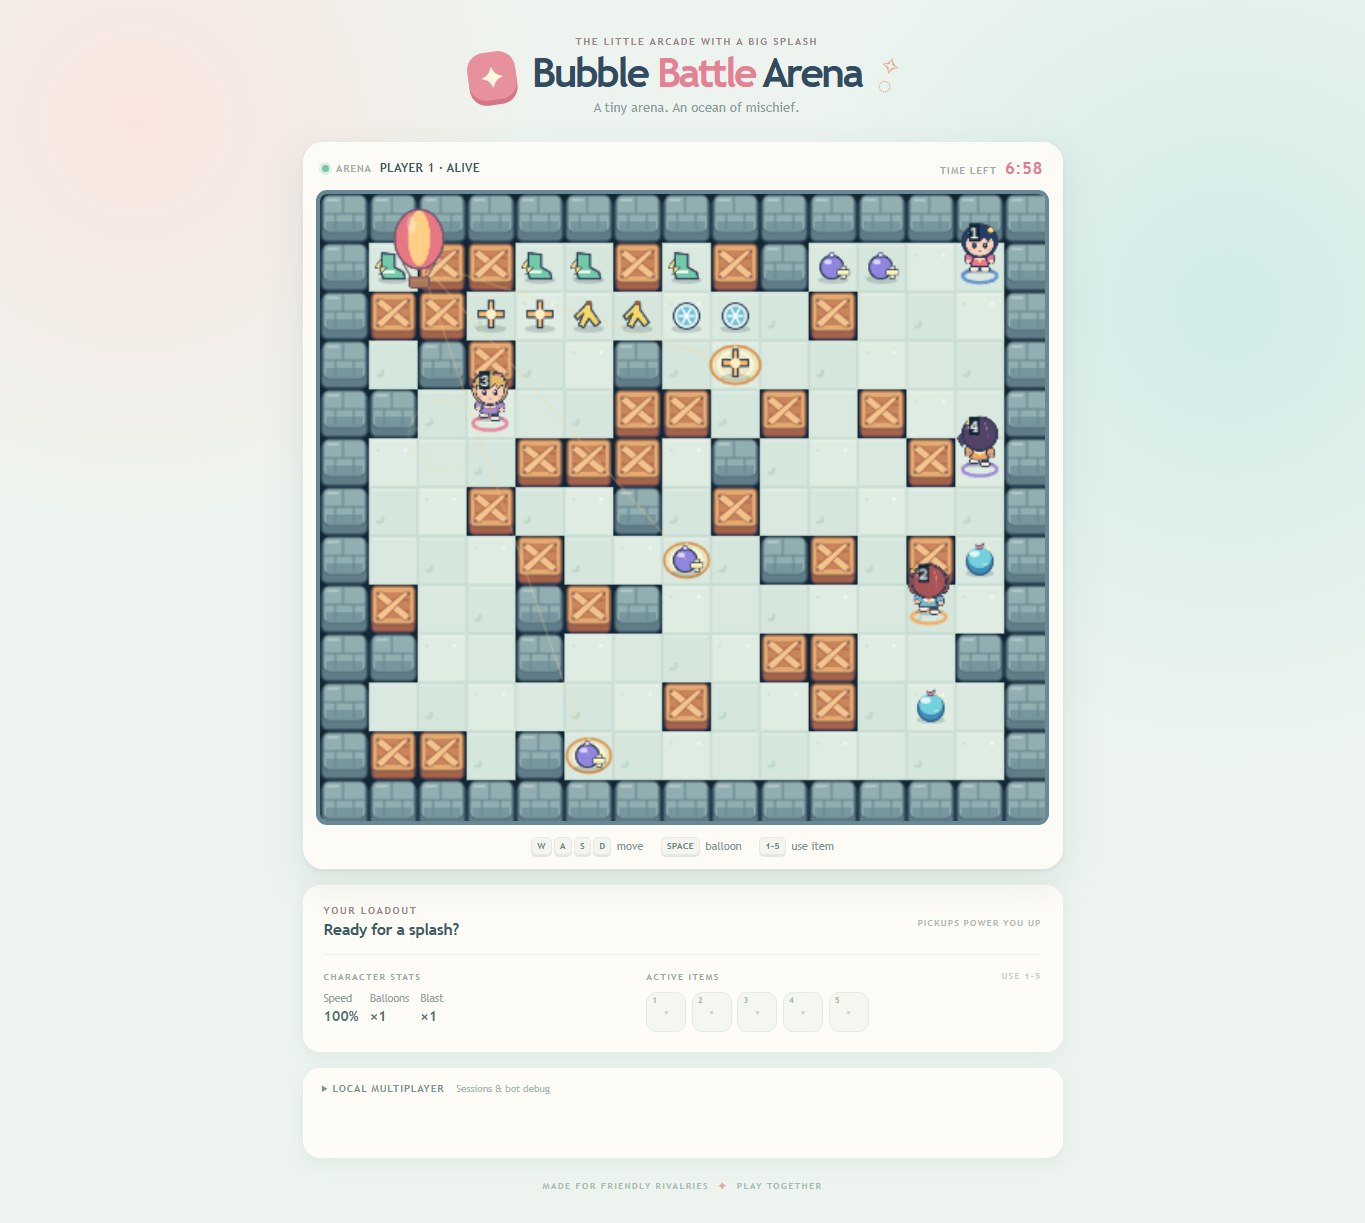
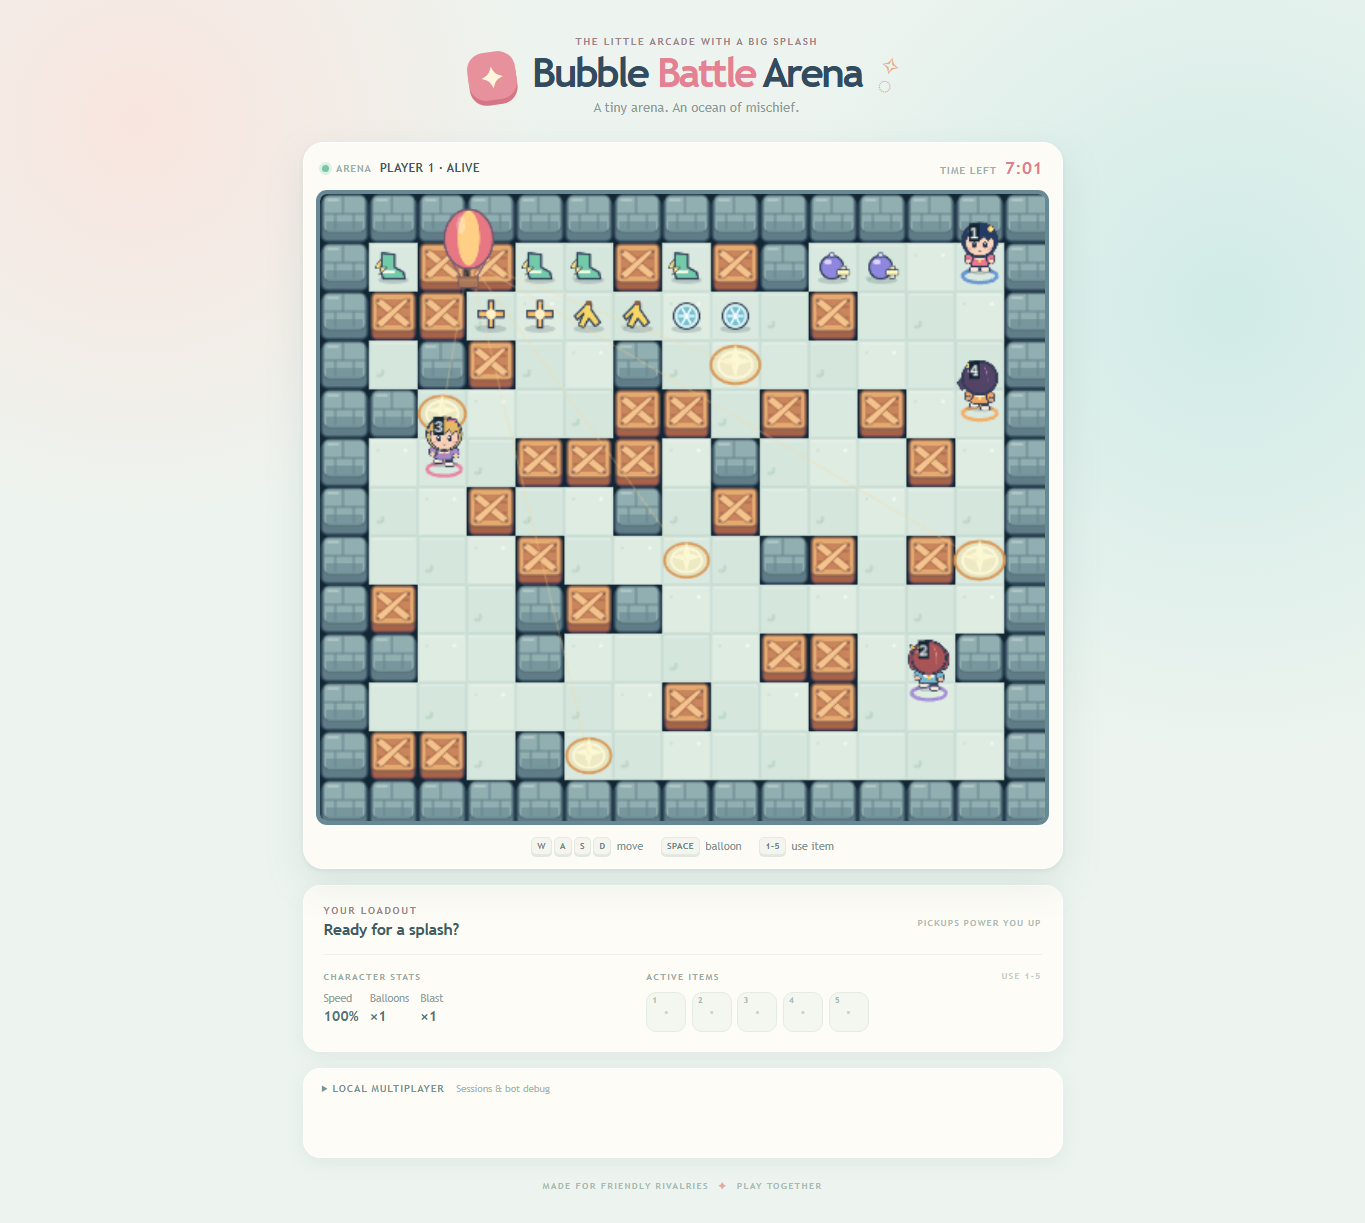
Add authoritative supply drop warnings

diff --git a/packages/engine/src/game.ts b/packages/engine/src/game.ts
@@ -24,6 +24,7 @@ export class Game {
   private nextItemId = 0;
   private supplyRandom: () => number;
   private nextSupplyIndex = 0;
+  private pendingSupply: { x: number; y: number; type: ItemType }[] | null = null;
   private hitExplosions = new Map<number, Set<string>>();
   private match?: MatchConfig;
   constructor(playerIds: string[], mapConfig: Partial<MapConfig> = {}, movementConfig: Partial<MovementConfig> = {}, bombConfig: Partial<BombConfig> = {}, match?: MatchConfig, itemConfig: Partial<ItemConfig> = {}) {
@@ -58,7 +59,7 @@ export class Game {
         !Number.isInteger(b.initialCapacity) || b.initialCapacity < 1 || !Number.isInteger(b.maxCapacity) || b.maxCapacity < b.initialCapacity ||
         !Number.isInteger(b.maxRange) || b.maxRange < 1 || typeof b.stopAtDestructible !== "boolean" || !["ignore", "reset", "eliminate"].includes(b.repeatedHit)) throw new RangeError("Invalid bomb configuration");
     for (const id of playerIds) this.upgrades.set(id, { capacity: b.initialCapacity, range: 1 });
-    this.state = { tick: 0, elapsedSeconds: 0, result: null, map, bombs: [], explosions: [], players: playerIds.map((id, i) => ({ id, teamId: match?.mode === "team" ? match.teams![id] : id, x: (spawns[i].x + 0.5) * map.tileSize, y: (spawns[i].y + 0.5) * map.tileSize, status: "alive", trappedSeconds: 0, boots: 0, capacityUpgrades: 0, rangeUpgrades: 0, inventory: Array(5).fill(null), slowSeconds: 0, slide: null, direction: { ...IDLE } })), items: [], balloon: null };
+    this.state = { tick: 0, elapsedSeconds: 0, result: null, map, bombs: [], explosions: [], players: playerIds.map((id, i) => ({ id, teamId: match?.mode === "team" ? match.teams![id] : id, x: (spawns[i].x + 0.5) * map.tileSize, y: (spawns[i].y + 0.5) * map.tileSize, status: "alive", trappedSeconds: 0, boots: 0, capacityUpgrades: 0, rangeUpgrades: 0, inventory: Array(5).fill(null), slowSeconds: 0, slide: null, direction: { ...IDLE } })), items: [], balloon: null, supplyPreview: null };
     // Provisional initial distribution: four boots and a configurable supply of other items.
     const available = map.tiles.flat().filter(t => t.type === "floor" && !spawns.some(p => Math.abs(p.x - t.x) + Math.abs(p.y - t.y) <= 1));
     for (const tile of map.tiles.flat()) if (tile.type === "floor" && !available.includes(tile)) available.push(tile);
@@ -75,31 +76,63 @@ export class Game {
     this.state.items.push({ id: this.nextItemId++, type, x, y, kind, ownerId, active: kind !== "trap" });
   }
   /** A bounded selection from currently free floor tiles. Fewer than four means no drop. */
-  private spawnSupply(startedAt: number): void {
-    this.state.balloon = { startedAt, durationSeconds: 20 };
+  private freeSupplyTiles() {
     const size = this.state.map.tileSize;
-    const tiles = this.state.map.tiles.flat().filter(tile => tile.type === "floor" &&
+    return this.state.map.tiles.flat().filter(tile => tile.type === "floor" &&
       !this.state.items.some(item => item.x === tile.x && item.y === tile.y) &&
       !this.state.bombs.some(bomb => bomb.x === tile.x && bomb.y === tile.y) &&
       !this.state.players.some(player => player.status !== "eliminated" && Math.floor(player.x / size) === tile.x && Math.floor(player.y / size) === tile.y));
-    if (tiles.length < 4) return;
+  }
+  private selectSupply() {
+    const tiles = this.freeSupplyTiles();
+    if (tiles.length < 4) return [];
     const count = Math.min(4 + Math.floor(this.supplyRandom() * 3), tiles.length);
     const types: ItemType[] = ["boots", "capacity", "range", "banana", "slowdown"];
-    const chosen: ItemType[] = [];
+    const chosen: { x: number; y: number; type: ItemType }[] = [];
     for (let i = 0; i < count; i++) {
       const j = i + Math.floor(this.supplyRandom() * (tiles.length - i));
       [tiles[i], tiles[j]] = [tiles[j], tiles[i]];
-      chosen.push(types[Math.floor(this.supplyRandom() * types.length)]);
+      chosen.push({ x: tiles[i].x, y: tiles[i].y, type: types[Math.floor(this.supplyRandom() * types.length)] });
     }
-    // Guarantee diversity without retry loops or biasing every event to a fixed category.
-    if (chosen.every(type => type === chosen[0])) {
-      const first = types.indexOf(chosen[0]);
-      chosen[count - 1] = types[(first + 1 + Math.floor(this.supplyRandom() * (types.length - 1))) % types.length];
+    if (chosen.every(item => item.type === chosen[0].type)) {
+      const first = types.indexOf(chosen[0].type);
+      chosen[count - 1].type = types[(first + 1 + Math.floor(this.supplyRandom() * (types.length - 1))) % types.length];
     }
-    for (let i = 0; i < count; i++) {
-      this.addItem(chosen[i], tiles[i].x, tiles[i].y, "pickup");
-      this.state.items[this.state.items.length - 1].supplyDroppedAt = startedAt;
+    return chosen;
+  }
+  private announceSupply(scheduledAt: number): void {
+    this.pendingSupply = this.selectSupply();
+    this.state.supplyPreview = { announcedAt: this.state.elapsedSeconds, scheduledAt, tiles: this.pendingSupply.map(({ x, y }) => ({ x, y })) };
+  }
+  private spawnSupply(startedAt: number): void {
+    this.state.balloon = { startedAt, durationSeconds: 20 };
+    const free = this.freeSupplyTiles();
+    if (free.length >= 4) {
+      const plan = this.pendingSupply?.length ? this.pendingSupply : this.selectSupply();
+      const key = (tile: { x: number; y: number }) => `${tile.x},${tile.y}`;
+      const available = new Set(free.map(key));
+      const retained = plan.filter(tile => available.has(key(tile))).slice(0, free.length);
+      const retainedKeys = new Set(retained.map(key));
+      const replacements = free.filter(tile => !retainedKeys.has(key(tile)));
+      const final = [...retained];
+      for (const tile of plan.filter(tile => !available.has(key(tile)))) {
+        if (final.length >= Math.min(plan.length, free.length)) break;
+        const index = Math.floor(this.supplyRandom() * replacements.length);
+        const replacement = replacements.splice(index, 1)[0];
+        final.push({ x: replacement.x, y: replacement.y, type: tile.type });
+      }
+      if (final.length && final.every(item => item.type === final[0].type)) {
+        const types: ItemType[] = ["boots", "capacity", "range", "banana", "slowdown"];
+        const first = types.indexOf(final[0].type);
+        final[final.length - 1] = { ...final[final.length - 1], type: types[(first + 1 + Math.floor(this.supplyRandom() * (types.length - 1))) % types.length] };
+      }
+      for (const item of final) {
+        this.addItem(item.type, item.x, item.y, "pickup");
+        this.state.items[this.state.items.length - 1].supplyDroppedAt = startedAt;
+      }
     }
+    this.pendingSupply = null;
+    this.state.supplyPreview = null;
   }
   /** Place one inventory charge on the current tile. Slots are zero-based. */
   useItem(playerId: string, slot: number): boolean {
@@ -271,8 +304,12 @@ export class Game {
     }
     if (this.state.balloon && this.state.elapsedSeconds >= this.state.balloon.startedAt + this.state.balloon.durationSeconds) this.state.balloon = null;
     const schedule = [180, 360, 540];
-    while (!this.state.result && this.nextSupplyIndex < schedule.length && this.state.elapsedSeconds + 1e-9 >= schedule[this.nextSupplyIndex]) {
-      this.spawnSupply(schedule[this.nextSupplyIndex++]);
+    if (this.state.result) { this.pendingSupply = null; this.state.supplyPreview = null; }
+    while (!this.state.result && this.nextSupplyIndex < schedule.length) {
+      const scheduledAt = schedule[this.nextSupplyIndex];
+      if (!this.state.supplyPreview && this.state.elapsedSeconds + 1e-9 >= scheduledAt - 3) this.announceSupply(scheduledAt);
+      if (this.state.elapsedSeconds + 1e-9 < scheduledAt) break;
+      this.spawnSupply(scheduledAt); this.nextSupplyIndex++;
     }
   }
   /** Return a detached public copy so consumers cannot mutate the simulation. */

diff --git a/frontend/tests/visual-model.test.ts b/frontend/tests/visual-model.test.ts
@@ -24,16 +24,19 @@ describe("authoritative visual projection", () => {
     expect(visibleBombs(multiplayerSnapshot)).toEqual(visibleBombs(snapshot));
     expect(visibleItems(multiplayerSnapshot)).toEqual(visibleItems(snapshot));
   });
-  it("shows only recent server-selected supply drops, aligned to their tiles", () => {
+  it("shows server-selected supply locations before landing", () => {
     const game = new Game(["a"], { indestructibleDensity: 0, destructibleDensity: 0 }, { speed: 0, timestepSeconds: 1 });
     const state = (game as unknown as { state: GameState }).state;
-    state.tick = 179; state.elapsedSeconds = 179;
+    state.tick = 176; state.elapsedSeconds = 176;
     expect(supplyMarkers(game.getSnapshot())).toEqual([]);
-    game.step(); const snapshot = game.getSnapshot(), drops = snapshot.items.filter(i => i.supplyDroppedAt === 180);
-    expect(drops.length).toBeGreaterThanOrEqual(4);
-    expect(supplyMarkers(snapshot)).toEqual(drops.map(i => ({ id: i.id, ...tileCenter(i.x, i.y, snapshot.map.tileSize) })));
-    expect(supplyMarkers(structuredClone(snapshot))).toEqual(supplyMarkers(snapshot));
-    game.step(); game.step(); game.step(); expect(supplyMarkers(game.getSnapshot())).toEqual([]);
+    game.step(); const preview = game.getSnapshot();
+    expect(preview.supplyPreview?.scheduledAt).toBe(180);
+    expect(preview.items.filter(i => i.supplyDroppedAt === 180)).toHaveLength(0);
+    expect(supplyMarkers(preview)).toEqual(preview.supplyPreview!.tiles.map((tile, id) => ({ id, ...tileCenter(tile.x, tile.y, preview.map.tileSize) })));
+    expect(supplyMarkers(preview).length).toBeGreaterThanOrEqual(4);
+    game.step(); game.step(); game.step(); const landed = game.getSnapshot();
+    expect(supplyMarkers(landed)).toEqual([]);
+    expect(landed.items.filter(i => i.supplyDroppedAt === 180).length).toBeGreaterThanOrEqual(4);
   });
   it("projects collected passive upgrades into stats and only consumables into slots", () => {
     const game = new Game(["a"], { indestructibleDensity: 0, destructibleDensity: 0 });

diff --git a/frontend/src/network.ts b/frontend/src/network.ts
@@ -11,6 +11,7 @@ export function isSnapshot(value: unknown): value is GameSnapshot {
   if (!value.players.every(p => record(p) && typeof p.id === "string" && typeof p.teamId === "string" && finite(p.x) && finite(p.y) && ["alive", "trapped", "eliminated"].includes(String(p.status)) && finite(p.trappedSeconds) && Array.isArray(p.inventory) && p.inventory.every((s: unknown) => s === null || (record(s) && ["banana", "slowdown"].includes(String(s.type)) && finite(s.charges))))) return false;
   if (!value.bombs.every(b => record(b) && finite(b.x) && finite(b.y)) || !value.explosions.every(e => record(e) && finite(e.x) && finite(e.y))) return false;
   if (!value.items.every(i => record(i) && finite(i.x) && finite(i.y) && ["boots", "capacity", "range", "banana", "slowdown"].includes(String(i.type)) && ["pickup", "hazard", "trap"].includes(String(i.kind)) && typeof i.active === "boolean" && (i.supplyDroppedAt === undefined || finite(i.supplyDroppedAt)))) return false;
+  if (value.supplyPreview !== null && (!record(value.supplyPreview) || !finite(value.supplyPreview.announcedAt) || !finite(value.supplyPreview.scheduledAt) || !Array.isArray(value.supplyPreview.tiles) || !value.supplyPreview.tiles.every(tile => record(tile) && Number.isInteger(tile.x) && Number.isInteger(tile.y) && (tile.x as number) >= 0 && (tile.y as number) >= 0 && (tile.x as number) < (value.map as Record<string, number>).width && (tile.y as number) < (value.map as Record<string, number>).height))) return false;
   if (value.balloon !== null && (!record(value.balloon) || !finite(value.balloon.startedAt) || !finite(value.balloon.durationSeconds) || (value.balloon.durationSeconds as number) <= 0)) return false;
   return value.result === null || (record(value.result) && (value.result.kind === "draw" || (value.result.kind === "winner" && typeof value.result.teamId === "string")));
 }

diff --git a/services/game/tests/socket.test.ts b/services/game/tests/socket.test.ts
@@ -35,14 +35,16 @@ describe("Socket.IO authoritative sessions", () => {
     const seenPlayer: GameState[] = [], seenSpectator: GameState[] = [];
     player.on("snapshot", s => seenPlayer.push(s)); spectator.on("snapshot", s => seenSpectator.push(s));
     const state = (session.game as unknown as { state: GameState }).state;
-    state.tick = 5399; state.elapsedSeconds = 5399 / 30;
-    steps(session, 1); await vi.waitFor(() => expect(seenPlayer.at(-1)?.balloon?.startedAt).toBe(180));
-    await vi.waitFor(() => expect(seenSpectator.at(-1)?.balloon?.startedAt).toBe(180));
+    state.tick = 5309; state.elapsedSeconds = 5309 / 30;
+    steps(session, 1); await vi.waitFor(() => expect(seenPlayer.at(-1)?.supplyPreview?.scheduledAt).toBe(180));
+    await vi.waitFor(() => expect(seenSpectator.at(-1)?.supplyPreview?.scheduledAt).toBe(180));
     const markers = supplyMarkers(seenPlayer.at(-1)!);
     expect(markers.length).toBeGreaterThanOrEqual(4); expect(supplyMarkers(seenSpectator.at(-1)!)).toEqual(markers);
     const late = await join(await client(), session, "spectator");
     expect(late.ok && supplyMarkers(late.value.snapshot)).toEqual(markers);
+    expect(seenPlayer.at(-1)!.items.some(item => item.supplyDroppedAt === 180)).toBe(false);
     steps(session, 90); expect(supplyMarkers(session.game.getSnapshot())).toEqual([]);
+    expect(session.game.getSnapshot().items.some(item => item.supplyDroppedAt === 180)).toBe(true);
   });
   it("joins four FFA players and four two-team players with consistent initial state", async () => {
     for (const mode of ["ffa", "team"] as const) {

diff --git a/frontend/src/arena-renderer.ts b/frontend/src/arena-renderer.ts
@@ -91,9 +91,13 @@ export class ArenaRenderer {
       const pulse = 1 + .035 * Math.sin(now / 350 + bomb.id * 1.7);
       this.image("bombs", "bomb", bomb.x, bomb.y, size * .87 * pulse, 6);
     }
-    if (snapshot.balloon) {
-      const progress = Phaser.Math.Clamp((snapshot.elapsedSeconds - snapshot.balloon.startedAt) / snapshot.balloon.durationSeconds, 0, 1);
-      const x = size * .7 + progress * (map.width * size + size * .3);
+    if (snapshot.supplyPreview || snapshot.balloon) {
+      const preview = snapshot.supplyPreview;
+      const progress = preview
+        ? Phaser.Math.Clamp((snapshot.elapsedSeconds - preview.announcedAt) / Math.max(.001, preview.scheduledAt - preview.announcedAt), 0, 1)
+        : Phaser.Math.Clamp((snapshot.elapsedSeconds - snapshot.balloon!.startedAt) / snapshot.balloon!.durationSeconds, 0, 1);
+      const destination = preview && markers.length ? markers.reduce((sum, marker) => sum + marker.x, 0) / markers.length : map.width * size + size;
+      const x = size * .7 + progress * (destination - size * .7);
       this.rings.lineStyle(1, 0xffd68c, .3);
       for (const marker of markers) this.rings.lineBetween(x, size * 1.35, marker.x, marker.y);
       this.image("balloon", "balloon", x, size * 1.15, size * 1.45, 18).setDisplaySize(size * 1.45, size * 1.8);

diff --git a/frontend/src/visual-model.ts b/frontend/src/visual-model.ts
@@ -10,10 +10,9 @@ export function visibleBombs(snapshot: GameSnapshot) {
 export function visibleItems(snapshot: GameSnapshot) {
   return snapshot.items.map(item => ({ ...item, position: tileCenter(item.x, item.y, snapshot.map.tileSize) }));
 }
-/** The engine chooses and creates drops in the same step. Mark only actual, recent drops. */
+/** Only server-selected upcoming landing tiles are displayed. */
 export function supplyMarkers(snapshot: GameSnapshot) {
-  return snapshot.items.filter(item => item.supplyDroppedAt !== undefined && snapshot.elapsedSeconds >= item.supplyDroppedAt && snapshot.elapsedSeconds - item.supplyDroppedAt < 3)
-    .map(item => ({ id: item.id, ...tileCenter(item.x, item.y, snapshot.map.tileSize) }));
+  return (snapshot.supplyPreview?.tiles ?? []).map((tile, id) => ({ id, ...tileCenter(tile.x, tile.y, snapshot.map.tileSize) }));
 }
 export function characterStats(player: PlayerState) {
   return { speedPercent: player.slowSeconds > 0 ? 50 : 100 + player.boots * 10, boots: player.boots, capacity: DEFAULT_BOMB_CONFIG.initialCapacity + player.capacityUpgrades, range: 1 + player.rangeUpgrades, inventory: player.inventory };

diff --git a/packages/shared/src/index.ts b/packages/shared/src/index.ts
@@ -13,7 +13,8 @@ export interface BombState { id: number; ownerId: string; x: number; y: number; 
 export interface ExplosionState { id: number; x: number; y: number; remainingSeconds: number }
 export interface BalloonState { startedAt: number; durationSeconds: number }
 export type MatchResult = { kind: "winner"; teamId: string } | { kind: "draw" };
-export interface GameState { tick: number; elapsedSeconds: number; result: MatchResult | null; map: ArenaMap; players: PlayerState[]; bombs: BombState[]; explosions: ExplosionState[]; items: GroundItem[]; balloon: BalloonState | null }
+export interface SupplyPreview { announcedAt: number; scheduledAt: number; tiles: { x: number; y: number }[] }
+export interface GameState { tick: number; elapsedSeconds: number; result: MatchResult | null; map: ArenaMap; players: PlayerState[]; bombs: BombState[]; explosions: ExplosionState[]; items: GroundItem[]; balloon: BalloonState | null; supplyPreview: SupplyPreview | null }
 export interface GameSnapshot extends GameState {}
 
 /** Development protocol: clients submit intent only, never gameplay state or identity. */

diff --git a/frontend/tests/network.test.ts b/frontend/tests/network.test.ts
@@ -9,6 +9,7 @@ describe("network snapshot validation", () => {
     expect(isSnapshot({ ...snapshot, players: [{ id: "spoof" }] })).toBe(false);
     expect(isSnapshot({ ...snapshot, items: [{ type: "unknown", x: 1, y: 1 }] })).toBe(false);
     expect(isSnapshot({ ...snapshot, balloon: { startedAt: 0, durationSeconds: 0 } })).toBe(false);
+    expect(isSnapshot({ ...snapshot, supplyPreview: { announcedAt: 177, scheduledAt: 180, tiles: [{ x: -1, y: 0 }] } })).toBe(false);
     expect(isSnapshot(null)).toBe(false);
   });
 });

diff --git a/docs/visual-redesign.md b/docs/visual-redesign.md
@@ -4,11 +4,11 @@ The arena art is original and generated locally by `frontend/src/art.ts` as cach
 
 Bombs and placed items use `(tile + 0.5) * tileSize` for their visual centres. The normal bomb render model deliberately omits the fuse duration; the existing engine and bot hazard predictor retain it. Explicitly enabled development Bot Debug continues to show predicted hazard timing. The existing multiplayer snapshot contract still carries bomb fuse values, so this is a display change, not protection against a client inspecting network traffic.
 
-The existing engine selects locations and creates supply items in the same simulation step. The gold landing rings therefore mark **already-created authoritative drops** for three seconds after the server event, disappearing sooner if the corresponding item is removed. They are not advance warning. All clients derive the same marker positions and lifetime from the event's `supplyDroppedAt` and snapshot time; a late join during that window sees the same current state. A true pre-drop warning would require the server to select or reserve locations earlier, potentially changing which tiles qualify, and is not implemented here.
+The server selects supply locations three seconds before each scheduled event and publishes them in `supplyPreview`. The balloon approaches and gold rings mark those authoritative locations for players, spectators, and late joins. No item is created until the scheduled drop. At landing the server rechecks occupancy, retaining valid announced locations and replacing blocked ones when possible; if fewer than four tiles are free the drop is skipped. If fewer than four tiles are available when the preview begins, locations can instead be selected at landing if space has since opened. Choosing locations earlier can change which tiles qualify compared with the previous behavior. The preview is cleared on landing or match end.
 
 Permanent upgrades remain engine stats and appear in Character Stats; only banana and slowdown charges appear in the five active-item slots. The default development server uses the engine's default initial bomb capacity and range.
 
-Screenshots below include a local baseline, the redesigned local arena, a placed bomb, and a multiplayer supply event. The supply screenshot uses a development test fixture that advanced the existing server simulation to its scheduled supply event. The loadout screenshot uses a fixture that placed pickups on the player's starting tile; the engine then collected them normally. Neither fixture introduces a production endpoint or a new game rule.
+Screenshots below include a local baseline, the redesigned local arena, a placed bomb, and a multiplayer supply event. The supply screenshot uses a development test fixture that advanced the server simulation to the advance-warning window. The loadout screenshot uses a fixture that placed pickups on the player's starting tile; the engine then collected them normally. Neither fixture introduces a production endpoint or a new game rule.
 
 - [Before](screenshots/visual-before.png)
 - [Redesigned arena](screenshots/visual-after.png)
